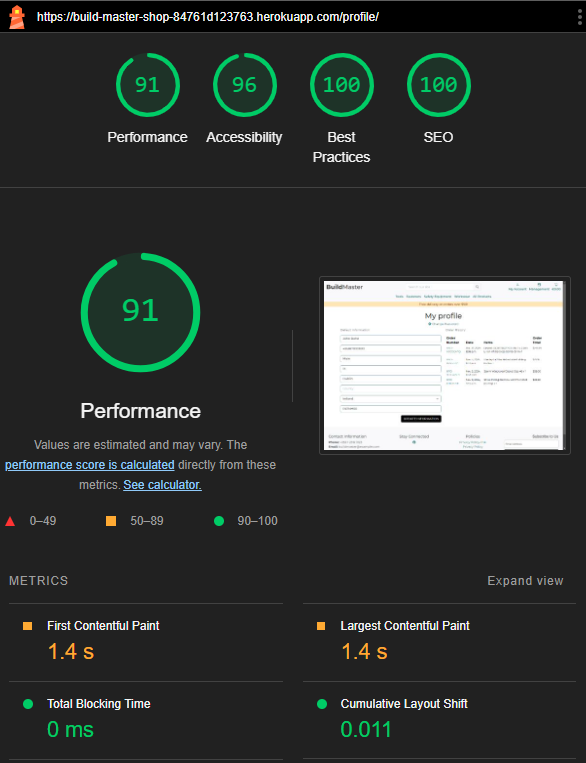
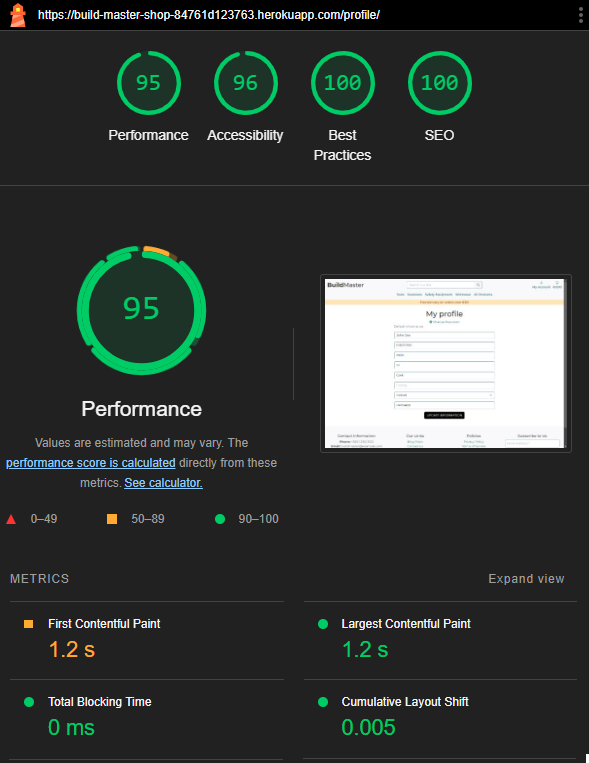
Add order history page to features and testing in the Readme.md

diff --git a/build_master/settings.py b/build_master/settings.py
@@ -27,7 +27,7 @@ BASE_DIR = Path(__file__).resolve().parent.parent
 SECRET_KEY = os.getenv('SECRET_KEY', '')
 
 # SECURITY WARNING: don't run with debug turned on in production!
-DEBUG = False
+DEBUG = True
 
 ALLOWED_HOSTS = [
     '8000-oleksiikova-buildmaster-f2krae16o6g.ws.codeinstitute-ide.net',

diff --git a/TESTING.md b/TESTING.md
@@ -73,7 +73,7 @@ Return back to the [README.md](README.md) file.
 |                                   | Check for broken images or links                          | All images and links load correctly                                          | ✅ Pass      |
 |                                   | Verify page performance                                    | Page loads quickly and assets are optimized                                  | ✅ Pass      |
 | **My Profile Page**               |                                                            |                                                                              |           |
-|                                   | Click on "Change ✅ Password" link                           | Redirects to the Change ✅ Password page                                       | ✅ Pass      |
+|                                   | Click on "Change Password" link                           | Redirects to the Change Password page                                       | ✅ Pass      |
 |                                   | Update profile information and click "Update Information" button | Profile information is successfully updated, with a success message         | ✅ Pass      |
 |                                   | Leave form fields empty and submit                        | Form submits successfully without errors, as fields are optional       | ✅ Pass      |
 |                                   | Verify responsiveness of the page                         | Layout adjusts properly across desktop, tablet, and mobile devices          | ✅ Pass      |
@@ -366,7 +366,8 @@ Lighthouse validation was run on all pages (both mobile and desktop) in order to
 | Cart            |     91      |      100      |      100       | 100 | <details><summary>Cart</summary><img src="static/images/readme_images/testing/lighthouse/desktop/cart.png"></details>                    |
 | Checkout            |     83      |      93      |      78       | 100 | <details><summary>Checkout</summary><img src="static/images/readme_images/testing/lighthouse/desktop/checkout.png"></details>                    |
 | Checkout Success            |     84      |      100      |      100       | 100 | <details><summary>Checkout Success</summary><img src="static/images/readme_images/testing/lighthouse/desktop/checkout_success.png"></details>    
-| My Profile            |     91      |      96      |      100       | 100 | <details><summary>My Profile</summary><img src="static/images/readme_images/testing/lighthouse/desktop/my-profile.png"></details>                    |
+| My Profile            |    95      |      96      |      100       | 100 | <details><summary>My Profile</summary><img src="static/images/readme_images/testing/lighthouse/desktop/my-profile.png"></details>                    |
+| My Orders            |     92      |      100      |      100       | 100 | <details><summary>My Orders</summary><img src="static/images/readme_images/testing/lighthouse/desktop/order-history-list.png"></details>                    |
 | My Reviews            |     95      |      100      |      100       | 100 | <details><summary>My Reviews</summary><img src="static/images/readme_images/testing/lighthouse/desktop/my-reviews.png"></details>                    |
 | Edit Review            |     96      |      100      |      100       | 100 | <details><summary>Edit Review</summary><img src="static/images/readme_images/testing/lighthouse/desktop/edit-review.png"></details>                    |
 | Delete Review            |     97      |      100      |      100       | 100 | <details><summary>Delete Review</summary><img src="static/images/readme_images/testing/lighthouse/desktop/delete-review.png"></details>                    |
@@ -394,7 +395,8 @@ Lighthouse validation was run on all pages (both mobile and desktop) in order to
 | Cart            |     70      |      100      |      100       | 100 | <details><summary>Cart</summary><img src="static/images/readme_images/testing/lighthouse/mobile/cart.png"></details>                    |
 | Checkout            |     80      |      93      |      79       | 100 | <details><summary>Checkout</summary><img src="static/images/readme_images/testing/lighthouse/mobile/checkout.png"></details>                    |
 | Checkout Success            |     80      |      100      |      100       | 100 | <details><summary>Checkout Success</summary><img src="static/images/readme_images/testing/lighthouse/mobile/checkout_success.png"></details>    
-| My Profile            |     87      |      96      |      100       | 100 | <details><summary>My Profile</summary><img src="static/images/readme_images/testing/lighthouse/mobile/my-profile.png"></details>                    |
+| My Profile            |     90      |      96      |      100       | 100 | <details><summary>My Profile</summary><img src="static/images/readme_images/testing/lighthouse/mobile/my-profile.png"></details>                    |
+| My Orders            |     88      |      100      |      100       | 100 | <details><summary>My Orders</summary><img src="static/images/readme_images/testing/lighthouse/mobile/order-history-list.png"></details>  
 | My Reviews            |     89      |      100      |      100       | 100 | <details><summary>My Reviews</summary><img src="static/images/readme_images/testing/lighthouse/mobile/my-reviews.png"></details>                    |
 | Edit Review            |     90      |      100      |      100       | 100 | <details><summary>Edit Review</summary><img src="static/images/readme_images/testing/lighthouse/mobile/edit-review.png"></details>                    |
 | Delete Review            |     90      |      100      |      100       | 100 | <details><summary>Delete Review</summary><img src="static/images/readme_images/testing/lighthouse/mobile/delete-review.png"></details>                    |

diff --git a/README.md b/README.md
@@ -37,6 +37,7 @@ Build Master Shop is a full-featured e-commerce web application specializing in 
    * [Checkout Page](#checkout-page)
    * [Blog Feature](#blog-feature)
    * [My Profile Page](#my-profile-page)
+   * [My Order History Page](#my-order-history-page)
    * [Wishlist Page](#wishlist-page)
    * [Product Rating and Review System](#product-rating-and-review-system)
    * [Stock Availability Check](#stock-availability-check)
@@ -653,18 +654,23 @@ The Blog feature allows users to engage with articles, updates, and other conten
  <details><summary>Click to view a screenshot of the feature</summary><img src="static/images/readme_images/features/blog.png"></details>
 
 ### My Profile Page
-The My Profile page provides authenticated users with an area to view and manage their personal information and past orders. It combines a user-friendly layout with essential functionalities like profile updates and access to order history, creating a centralized hub for managing account details.
+The My Profile page provides authenticated users with an area to view and manage their personal information. It combines a user-friendly layout with essential functionalities like profile updates , creating a centralized hub for managing account details.
 
-#### Personal Information Section:
+#### Personal Information:
 - Displays a form pre-filled with the user's current profile information (e.g., name, email, and address details).
 - A button to Update Information submits the form, saving any changes made by the user.
 - A Change Password link allows users to navigate to the password change form, improving account security.
 
-#### Order History Section:
-- Lists the user's past orders in reverse chronological order with order number, date, items purchased, and order total.
+ <details><summary>Click to view a screenshot of the feature</summary><img src="static/images/readme_images/features/my-profile.png"></details>
+
+ ### My Order History Page
+The My Order History page provides authenticated users with an area to view their past orders. 
+
+#### Order History:
+- Display lists the user's past orders in reverse chronological order with order number, date, items purchased, and order total.
 - Each order is linked to a detailed view that users can access by clicking on the order number. This detail view opens the order’s original confirmation page, allowing users to review their order contents, total, and confirmation message.
 
- <details><summary>Click to view a screenshot of the feature</summary><img src="static/images/readme_images/features/my-profile.png"></details>
+ <details><summary>Click to view a screenshot of the feature</summary><img src="static/images/readme_images/features/order-history-list.png"></details>
 
 ### Wishlist Page
 The Wishlist page allows users to save and manage products they are interested in for future reference. This feature provides a personalized shopping experience by keeping desired products readily accessible.
